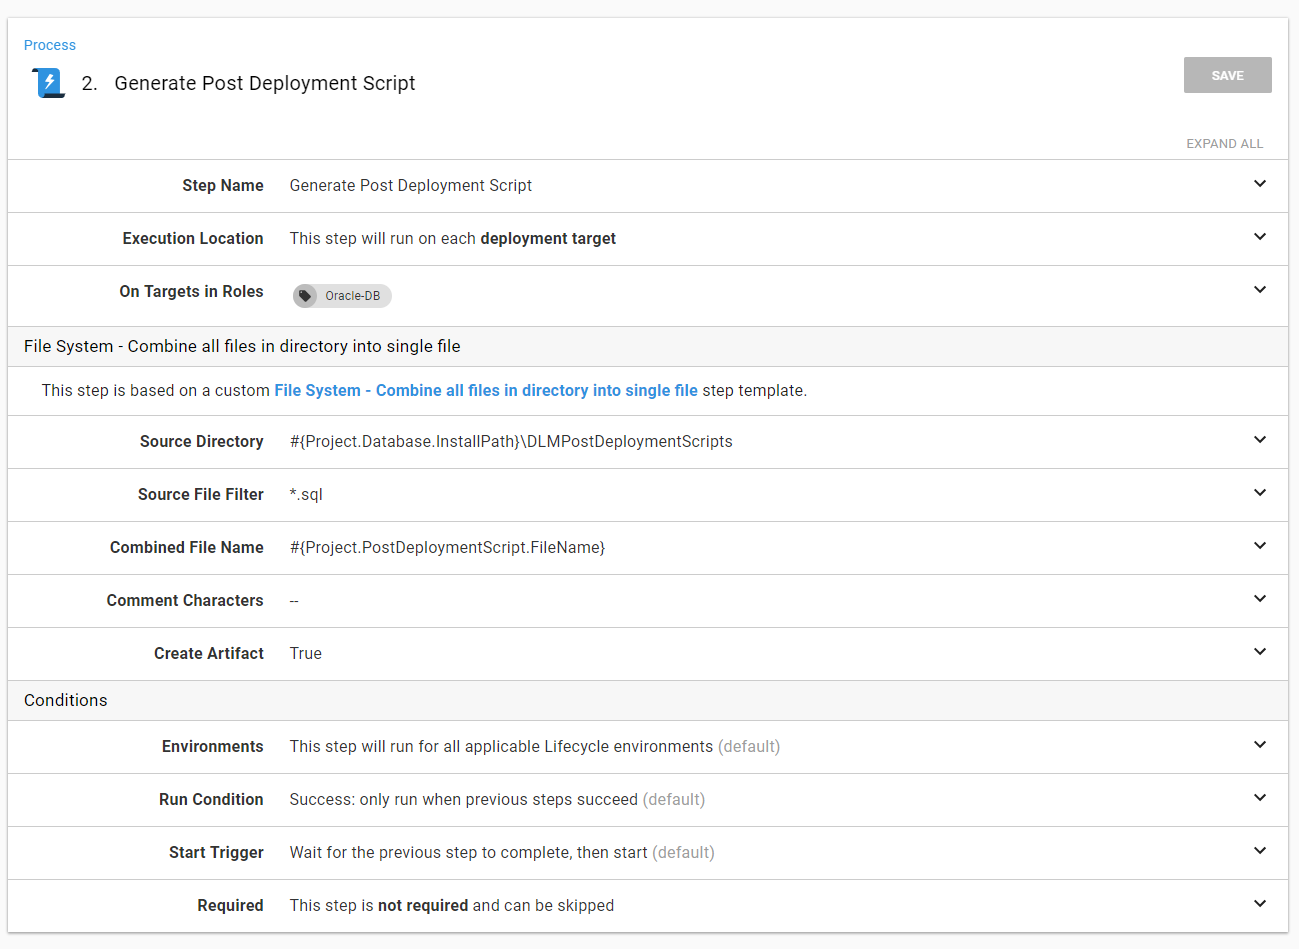
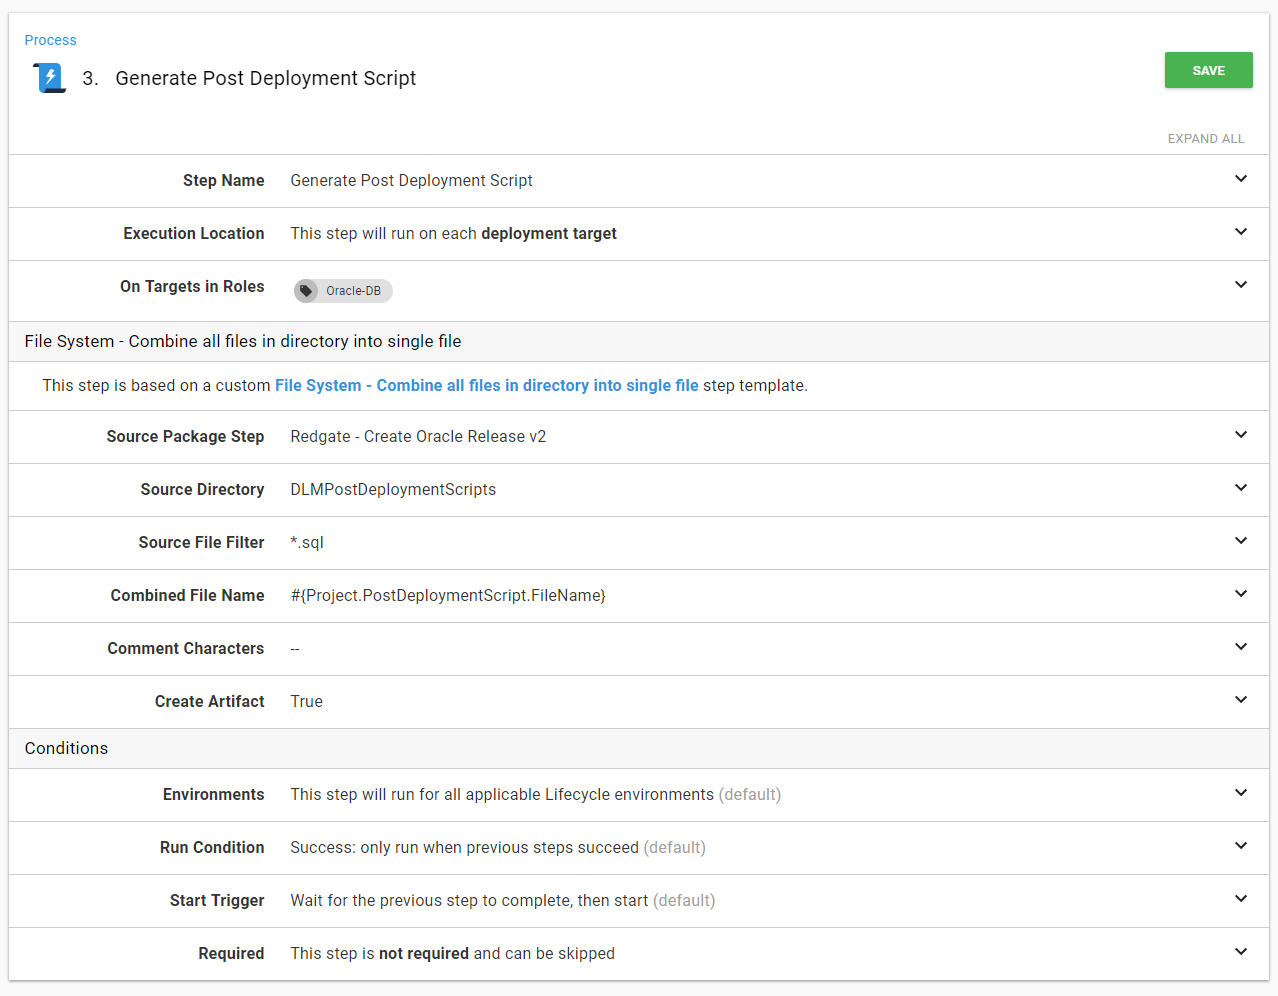
Fixing some minor issues with screenshots

diff --git a/blog/2018-11/oracle-database-using-redgate-part-II/index.md b/blog/2018-11/oracle-database-using-redgate-part-II/index.md
@@ -1,9 +1,9 @@
 ---
-title: Deploy to Oracle Database using Octopus Deploy, Jenkins and Redgate
-description: In Part II in this series of deploying to Oracle databases we will expand on the existing process and swap out TeamCity with Jenkins.
+title: Add Post Deployment scripts Oracle Database CI/CD pipeline with Octopus Deploy, Jenkins and Redgate
+description: In Part II in this series of deploying to Oracle databases we will expand on the existing process to include post deployment scripts and swap out TeamCity with Jenkins.
 author: bob.walker@octopus.com
 visibility: public
-published: 2018-11-07
+published: 2018-11-09
 metaImage: metaimage-redgate-database.png
 bannerImage: blogimage-redgate-database.png
 tags:
@@ -160,9 +160,7 @@ The same thing can be seen on the last step.  All the hardcoded values have been
 
 We are going to be adding two new steps to the process.  The first step will combine all the scripts found in the `DLMPostDeploymentScripts` folder into a single script and upload it as an artifact.  This will allow an approver to look through the script to ensure it isn't going to do anything crazy.
 
-I've created a step template in the library you can use called `File System - Combine all files in directory into single file`. The step will handle all the heavy lifting for you.  You just need to provide it the necessary parameters.
-
-**Please Note:** The variable `Project.Database.InstallPath` points to `Octopus.Action[Redgate - Create Oracle Release].Output.Package.InstallationDirectoryPath`.  I made it a variable in the event I ever rename the step which downloads the package or I want to add more post deployment steps to this process.  
+I've created a step template in the library you can use called `File System - Combine all files in directory into single file`. The step will handle all the heavy lifting for you.  You just need to provide it the necessary parameters.  
 
 ![](octopus-generate-postdeployment-script.png)
 
@@ -184,8 +182,12 @@ And the script was ran successfully.
 
 ## Conclusion
 
-With some minor modifications to the process we can now cover a lot more scenarios than before.  It will take a bit of discipline to use this process.  You will need to ensure the scripts can be run multiple times.  That you remember to remove the scripts after they have been run so you aren't running scripts over and over again.  The scripts will be manually written so there is a small to large chance you will run into errors the first time the scripts are run.  
+With some minor modifications to the process we can now cover a lot more scenarios than before.  It will take a bit of discipline to use this process.  You will need to ensure the scripts can be run multiple times.  You will also have to you remember to remove the scripts after they have been run so you aren't running scripts over and over.  The scripts will be manually written so there is a small to large chance you will run into errors the first time the scripts are run.  
 
-Hopefully, the effort is all worth it.  With this in place now you can start thinking about other things like initialization data, blue/green deployments, and other more complex scenarios.  And as a side bonus, now you know how to build an Octopus Deploy package and deploy that using Octopus Deploy with both TeamCity and Jenkins.  
+But those are some minor issues.  When I helped write this process at a previous company I was surprised how well people took to it.  Once they knew they could write their own scripts to handle data migration or anything else I started seeing some very unique uses out of it.  One use was running a series of scripts to insert some initialization, or seed, data into tables.  We extended the process even further to check to see if the database existed.  If the database did not then it would create it on the fly and initialize it with seed data.  This allowed us to spin up and down test environments and customers quickly.
+
+And that is just the start.  With this is in place it is possible to think about having a blue/green deployment strategy.  A process could be in place to finish the regular deployment and once a blue/green switch is finished and successfully tested a final database script could be ran to clean up the data.
+
+Finally, as a side bonus, now you now know how to build an Octopus Deploy package and deploy that using Octopus Deploy with both TeamCity and Jenkins.  
 
 Until next time, Happy Deployments!
